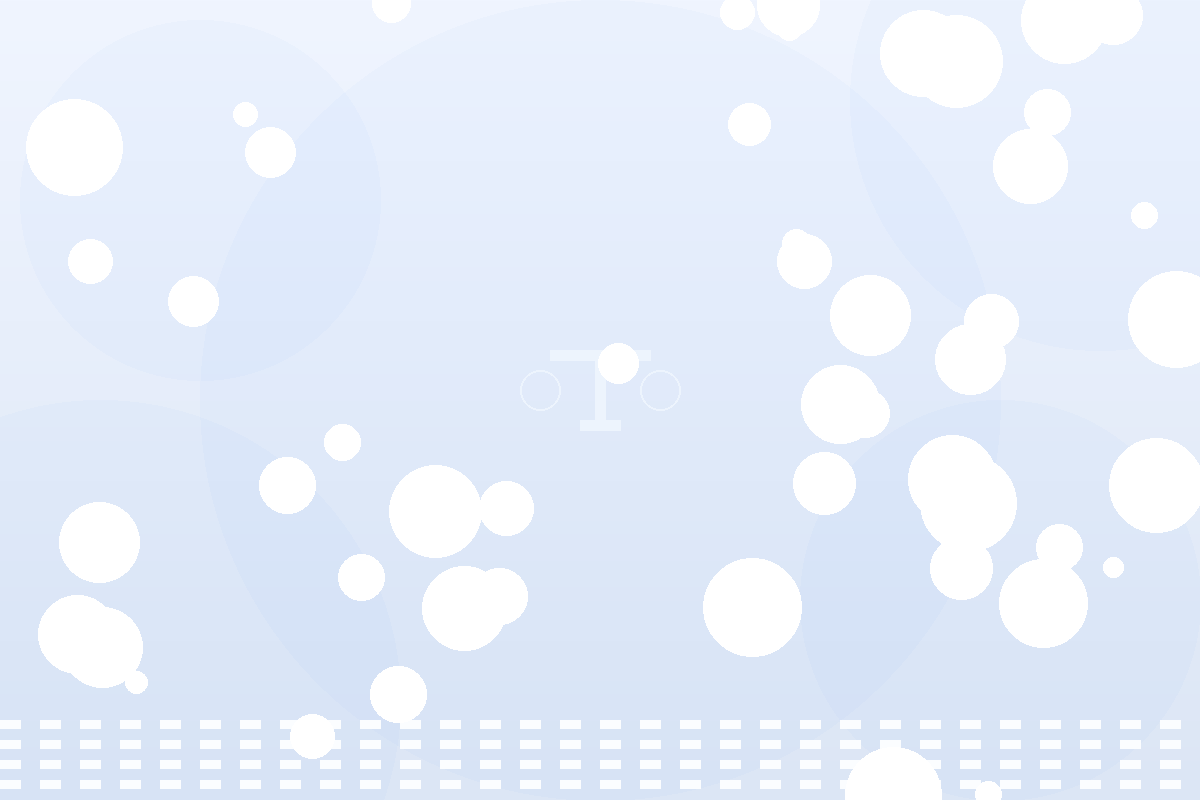
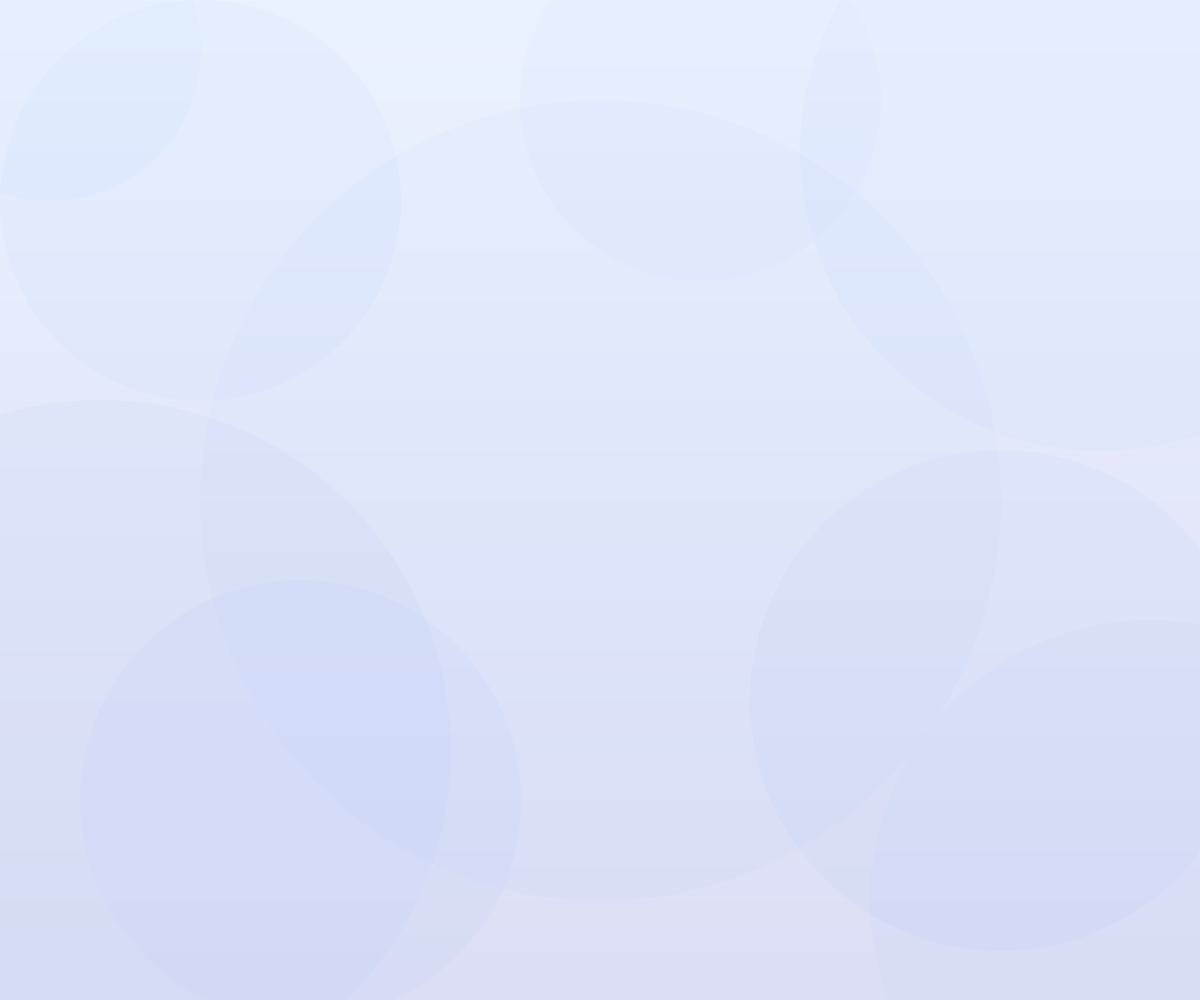
feat: 蓝色渐变背景图 + 按钮白色背景 + 缓存刷新

diff --git a/templates/index.html b/templates/index.html
@@ -20,7 +20,7 @@
                 <span>开始免费咨询</span>
                 <svg width="20" height="20" viewBox="0 0 24 24" fill="none"><path d="M5 12h14M13 5l7 7-7 7" stroke="currentColor" stroke-width="2" stroke-linecap="round" stroke-linejoin="round"/></svg>
             </a>
-            <a href="/documents" class="btn btn-outline btn-lg">浏览法律文档</a>
+            <a href="/documents" class="btn btn-outline btn-lg" style="background:#fff">浏览法律文档</a>
         </div>
     </div>
 </section>
